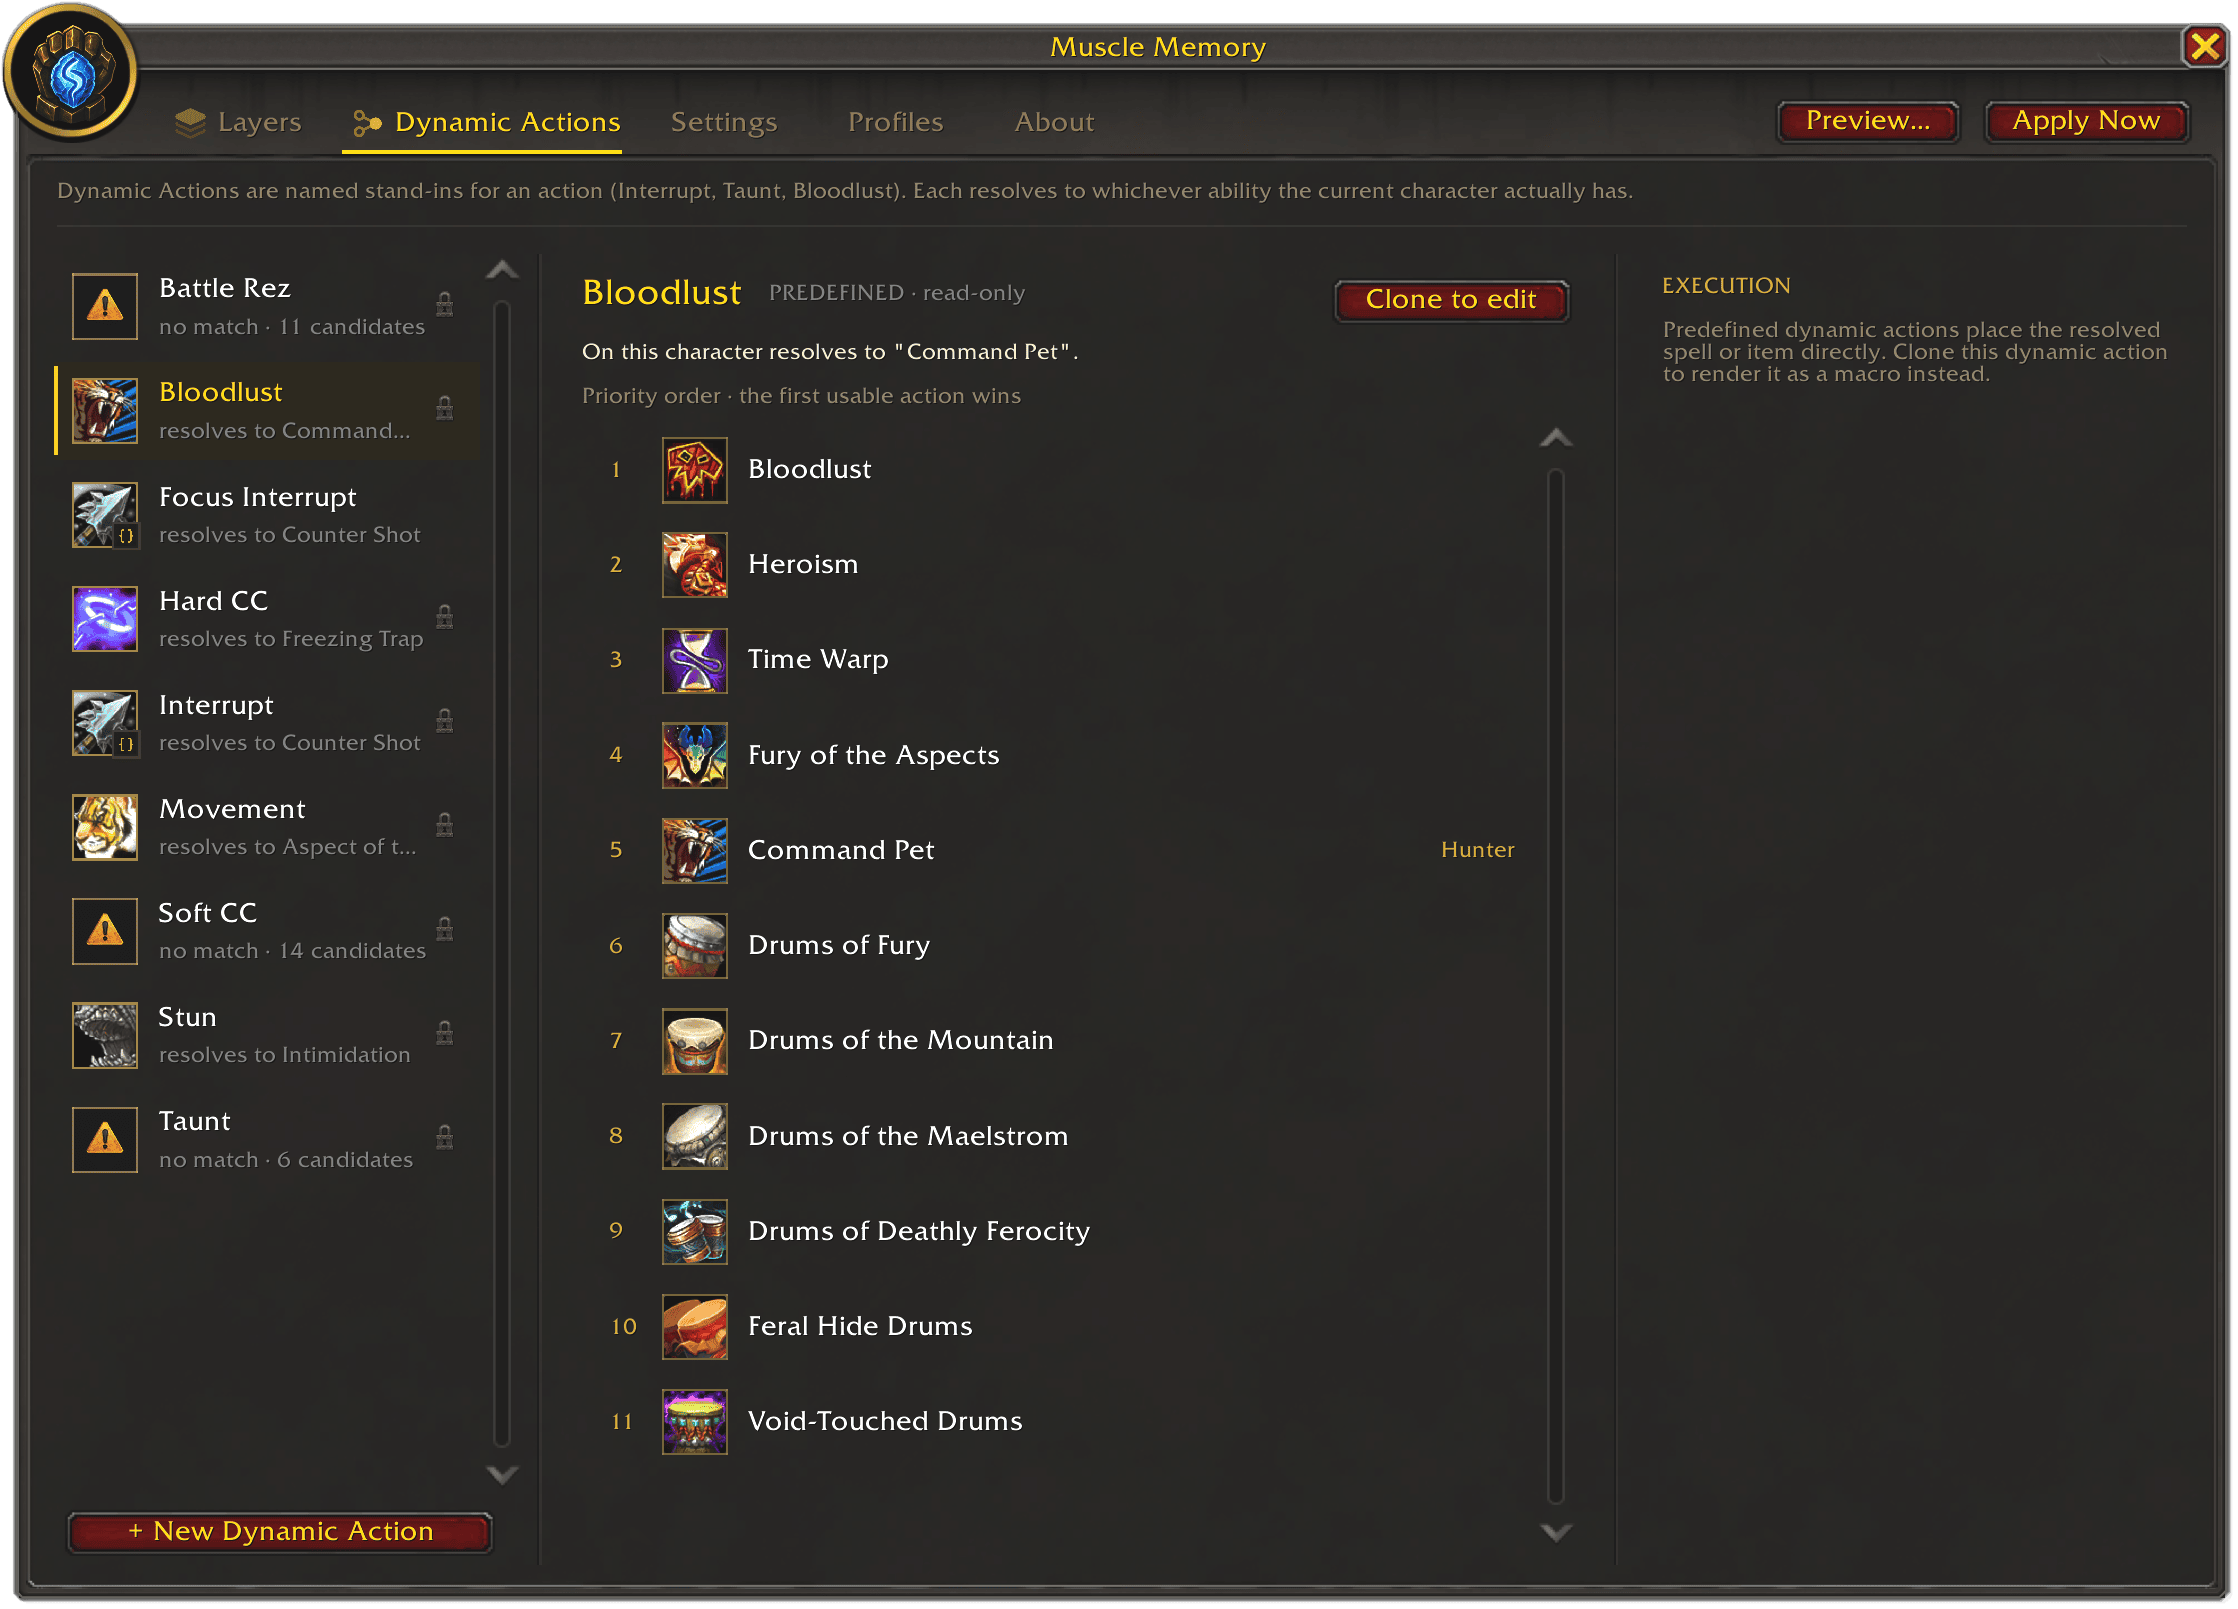
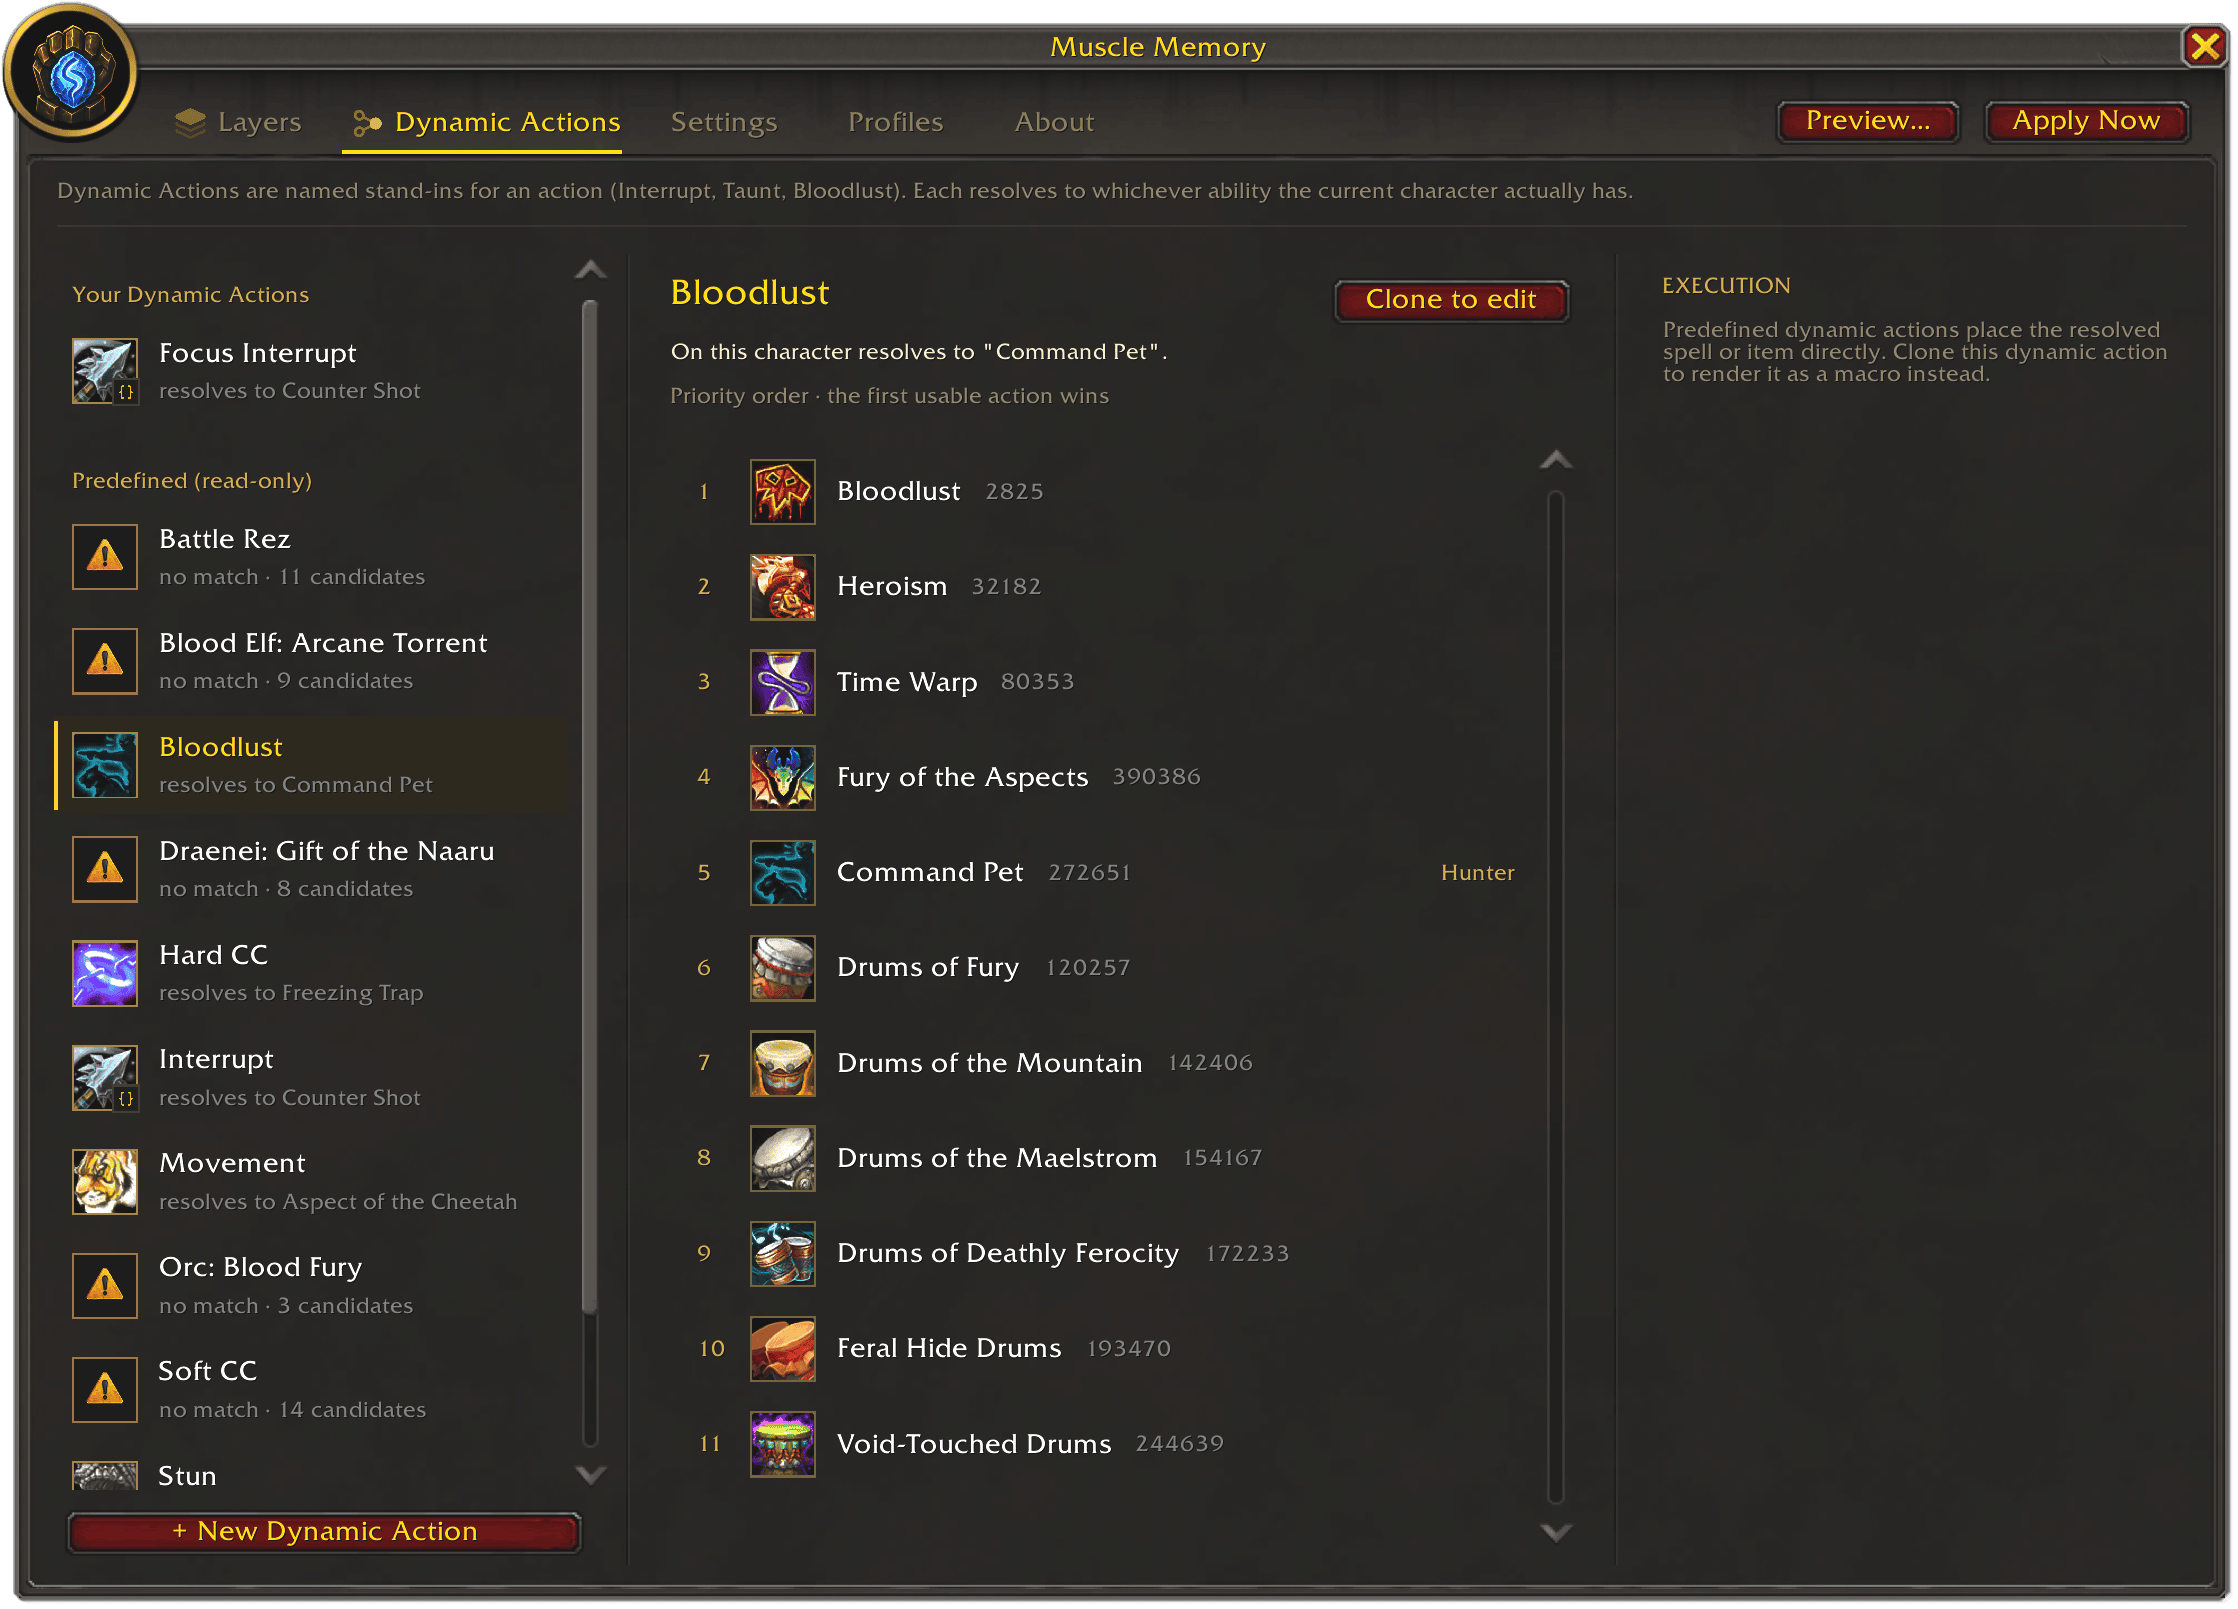
docs: refresh screenshots and document the new features
- README: bullets for macro portability and bind-time suggestions, the per-class racials in the built-ins list, and `suggestion.png` in the gallery.
- Screenshot tour: the showcase gains a `Utility` layer so the other-layer marking shows in `layers.png`, plus a new `suggestion` view staging the bind dialog (the fullscreen shade is hidden during the matte and suggest mode is forced on and restored); `process-shots.sh` and the `/mm shot view` usage include the new view.

diff --git a/README.md b/README.md
@@ -29,6 +29,10 @@ has for the job. One binding, every class.
 - **Real macros when you need them.** Render a dynamic action as a macro for mouseover, focus,
   modifier, and conditional casts (`/use [@mouseover,help][@focus] %name%`); Muscle Memory writes and
   maintains the per-character macro for you.
+- **Your macros travel with you.** A bound character macro is recreated on any character that doesn't
+  have it yet, and keeps matching by name after you edit its body.
+- **Suggestions while you bind.** Drop Kick onto a slot and Muscle Memory offers to bind *Interrupt*
+  instead, so the slot keeps working on every character (configurable: never / suggest / automatic).
 - **Everything that lives on a bar.** Spells, items, macros, mounts, toys, battle pets, flyouts, and
   equipment sets.
 - **No surprises.** Preview shows what Apply would change first, and Apply is blocked in combat or
@@ -64,8 +68,9 @@ Counterspell on your Mage.
 
 ![Muscle Memory dynamic actions tab](https://raw.githubusercontent.com/whytspace/MuscleMemory/main/docs/images/dynamic-actions.png)
 
-Built-ins cover Bloodlust, Interrupt, Stun, Hard CC, Soft CC, Battle Rez, Taunt, and Movement — and
-you can build your own:
+Built-ins cover Bloodlust, Interrupt, Stun, Hard CC, Soft CC, Battle Rez, Taunt, Movement, and the
+racials whose spell differs by class (Blood Elf: Arcane Torrent, Orc: Blood Fury, Draenei: Gift of
+the Naaru) — and you can build your own:
 
 - **Mix anything castable.** Candidates can blend spells, items, toys, and mounts — so *Bloodlust*
   resolves through each class's own version (Bloodlust, Heroism, Time Warp, Fury of the Aspects) and
@@ -103,8 +108,7 @@ or `/mm <topic> help`, to explore it. The essentials:
 |---|---|
 | ![Layers](https://raw.githubusercontent.com/whytspace/MuscleMemory/main/docs/images/layers.png) | ![Dynamic actions](https://raw.githubusercontent.com/whytspace/MuscleMemory/main/docs/images/dynamic-actions.png) |
 | ![Profiles](https://raw.githubusercontent.com/whytspace/MuscleMemory/main/docs/images/profiles.png) | ![Macro editor](https://raw.githubusercontent.com/whytspace/MuscleMemory/main/docs/images/macro-editor.png) |
-| ![Rendered macro](https://raw.githubusercontent.com/whytspace/MuscleMemory/main/docs/images/macro-window.png) | |
- |
+| ![Rendered macro](https://raw.githubusercontent.com/whytspace/MuscleMemory/main/docs/images/macro-window.png) | ![Bind suggestion](https://raw.githubusercontent.com/whytspace/MuscleMemory/main/docs/images/suggestion.png) |
 
 ## License
 
